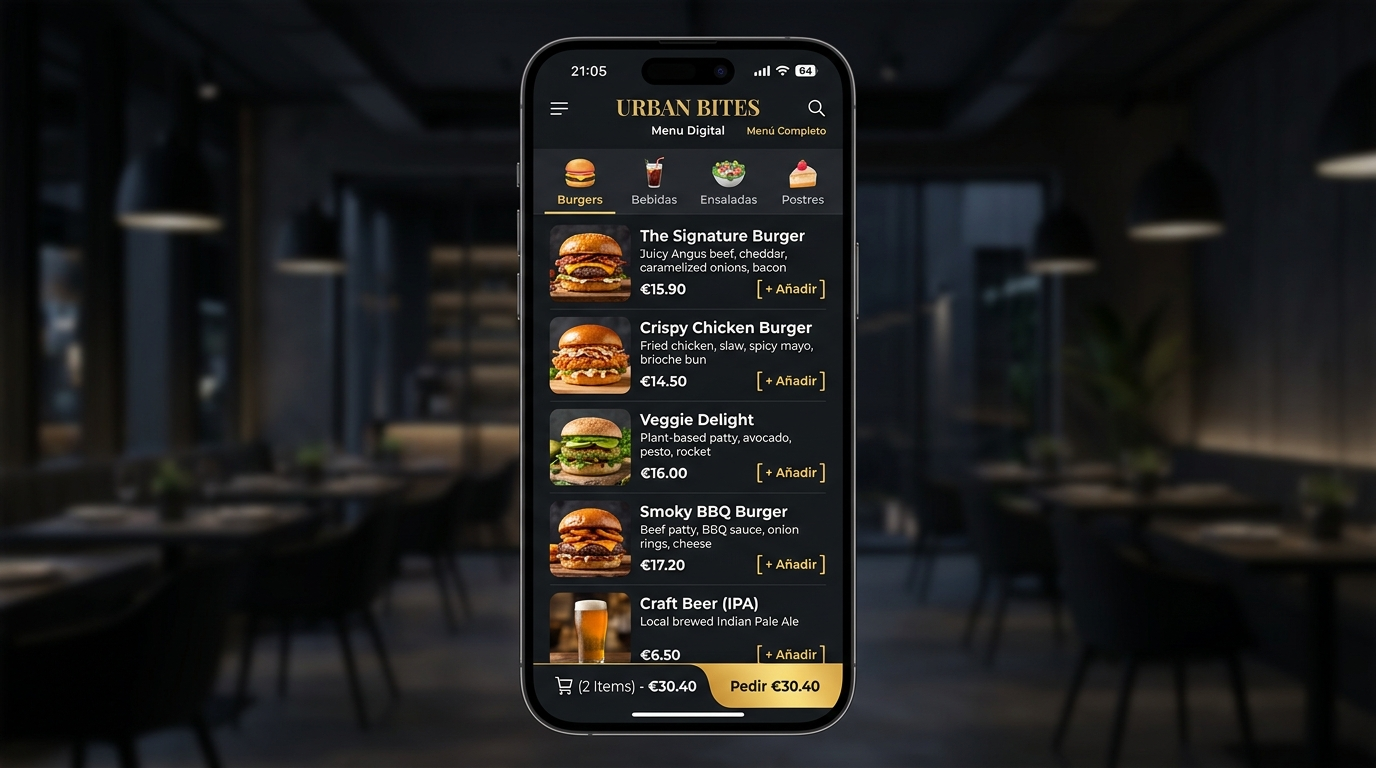
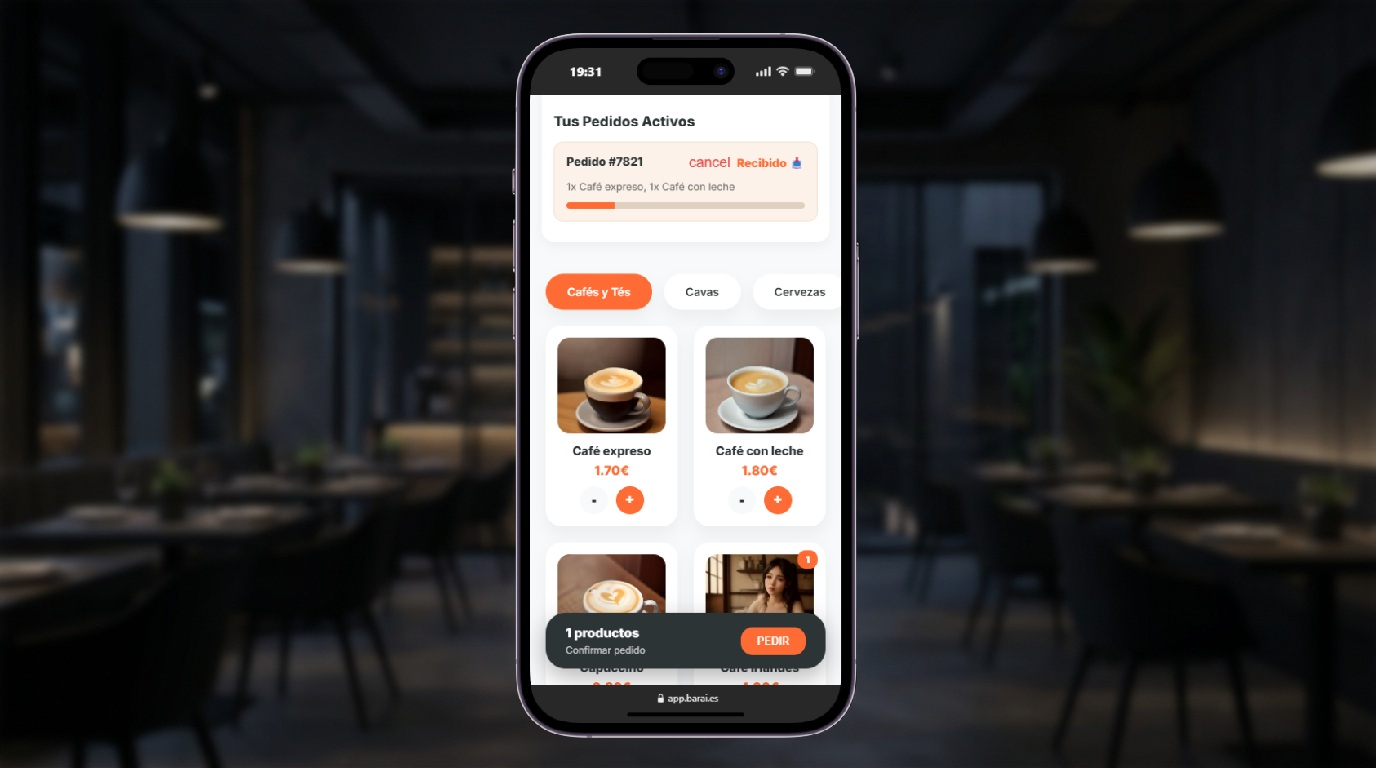
feat: update helpdesk page with new asset images and layout improvements

Changed region(s): [[0.375, 0.0312, 0.625, 0.9688]]

diff --git a/helpdesk.html b/helpdesk.html
@@ -142,7 +142,7 @@
                             </ul>
                         </div>
                         <div class="bg-gray-900 min-h-[280px] flex items-center justify-center p-6 border-t md:border-t-0 md:border-l border-gray-800">
-                            <img src="assets/client_view_mockup.jpg" alt="Vista Cliente" class="rounded-xl shadow-2xl max-h-[360px] object-cover border border-gray-700">
+                            <img src="assets/cliente_vista_pedidos.png" alt="Vista Móvil de Pedidos BarAI" class="rounded-xl shadow-2xl max-h-[380px] w-auto object-contain border border-gray-700 hover:scale-105 transition-transform duration-300">
                         </div>
                     </div>
                 </div>
@@ -151,7 +151,7 @@
                 <div class="help-card bg-cardBg border border-gray-800 rounded-3xl overflow-hidden shadow-2xl transition-all duration-300">
                     <div class="grid grid-cols-1 md:grid-cols-2">
                         <div class="bg-gray-900 min-h-[280px] flex items-center justify-center p-6 border-b md:border-b-0 md:border-r border-gray-800 order-2 md:order-1">
-                            <img src="assets/kitchen_panel_mockup.jpg" alt="Panel de Cocina" class="rounded-xl shadow-2xl w-full object-cover border border-gray-700">
+                            <img src="assets/cocina_panel_kds.png" alt="Panel KDS de Cocina y Barra" class="rounded-xl shadow-2xl w-full object-contain border border-gray-700 hover:scale-105 transition-transform duration-300">
                         </div>
                         <div class="p-8 md:p-10 flex flex-col justify-center order-1 md:order-2">
                             <div class="inline-flex items-center space-x-2 px-3 py-1 rounded-full bg-orange-900/30 text-orange-400 text-xs font-bold uppercase tracking-wider mb-6 w-max border border-orange-800/50">
@@ -187,34 +187,33 @@
                 <div class="help-card bg-cardBg border border-gray-800 rounded-3xl p-8 md:p-10 shadow-2xl transition-all duration-300">
                     <div class="inline-flex items-center space-x-2 px-3 py-1 rounded-full bg-red-900/30 text-red-400 text-xs font-bold uppercase tracking-wider mb-6 w-max border border-red-800/50">
                         <i class="fa-solid fa-shield-halved"></i>
-                        <span>Control Antifraude</span>
+                        <span>Control Antifraude y Administración</span>
                     </div>
-                    <h2 class="text-2xl font-bold text-white mb-4">3. Reglas de Cancelación y PIN de Seguridad</h2>
+                    <h2 class="text-2xl font-bold text-white mb-4">3. Reglas de Cancelación y Configuración del Negocio</h2>
                     <p class="text-gray-400 mb-6 leading-relaxed text-sm">
-                        Para evitar pérdidas de comida y mermas económicas, el sistema aplica dos barreras de seguridad:
+                        Para evitar pérdidas de comida y mermas económicas, el sistema aplica dos barreras de seguridad y un panel centralizado de ajustes:
                     </p>
-                    <div class="grid grid-cols-1 md:grid-cols-2 gap-6">
-                        <div class="bg-gray-900/60 p-6 rounded-2xl border border-gray-800">
-                            <div class="text-neonCyan text-lg font-bold mb-2 flex items-center">
-                                <i class="fa-solid fa-user-xmark mr-2"></i> Cancelación por el Cliente
+                    <div class="grid grid-cols-1 md:grid-cols-3 gap-6 items-center">
+                        <div class="space-y-4 md:col-span-2">
+                            <div class="bg-gray-900/60 p-5 rounded-2xl border border-gray-800">
+                                <div class="text-neonCyan text-base font-bold mb-1.5 flex items-center">
+                                    <i class="fa-solid fa-user-xmark mr-2"></i> Cancelación por el Cliente
+                                </div>
+                                <p class="text-gray-400 text-xs leading-relaxed">
+                                    El cliente <strong>solo puede anular</strong> su pedido si este aún se encuentra en estado <code>Recibido</code>. En cuanto cocina o barra pulsa "Oído" o "Preparar", el botón desaparece de su móvil.
+                                </p>
                             </div>
-                            <p class="text-gray-400 text-xs leading-relaxed mb-3">
-                                El cliente <strong>solo puede anular</strong> su pedido si este aún se encuentra en estado <code>Recibido</code>. 
-                            </p>
-                            <p class="text-gray-400 text-xs leading-relaxed">
-                                En el instante en que cocina o barra pulsa "Oído" o "Preparar", el botón de cancelación desaparece del teléfono del cliente.
-                            </p>
+                            <div class="bg-gray-900/60 p-5 rounded-2xl border border-gray-800">
+                                <div class="text-red-400 text-base font-bold mb-1.5 flex items-center">
+                                    <i class="fa-solid fa-key mr-2"></i> Cancelación del Personal (PIN Maestro)
+                                </div>
+                                <p class="text-gray-400 text-xs leading-relaxed">
+                                    Si un plato en preparación se cancela, el personal debe introducir el <strong>PIN de 4 dígitos</strong> del Administrador. Esto previene mermas descontroladas.
+                                </p>
+                            </div>
                         </div>
-                        <div class="bg-gray-900/60 p-6 rounded-2xl border border-gray-800">
-                            <div class="text-red-400 text-lg font-bold mb-2 flex items-center">
-                                <i class="fa-solid fa-key mr-2"></i> Cancelación del Personal (PIN)
-                            </div>
-                            <p class="text-gray-400 text-xs leading-relaxed mb-3">
-                                Si un plato ya está en marcha y se necesita anular, el sistema solicita un <strong>código PIN maestro de 4 dígitos</strong> del Administrador/Gerente.
-                            </p>
-                            <p class="text-gray-400 text-xs leading-relaxed">
-                                Esto evita anulaciones accidentales o descuadres en inventario sin autorización previa.
-                            </p>
+                        <div class="bg-gray-900 p-4 rounded-2xl border border-gray-800 flex items-center justify-center">
+                            <img src="assets/administracion_ajustes.png" alt="Panel de Administración y Ajustes" class="rounded-xl shadow-xl w-full max-h-[220px] object-contain border border-gray-700 hover:scale-105 transition-transform duration-300">
                         </div>
                     </div>
                 </div>
@@ -247,7 +246,7 @@
                             </ul>
                         </div>
                         <div class="bg-gray-900 min-h-[280px] flex items-center justify-center p-6 border-t md:border-t-0 md:border-l border-gray-800">
-                            <img src="assets/table_map_mockup.jpg" alt="Plano de Mesas" class="rounded-xl shadow-2xl w-full object-cover border border-gray-700">
+                            <img src="assets/sala_croquis_mesas.png" alt="Plano de Mesas y Sala" class="rounded-xl shadow-2xl w-full object-contain border border-gray-700 hover:scale-105 transition-transform duration-300">
                         </div>
                     </div>
                 </div>
